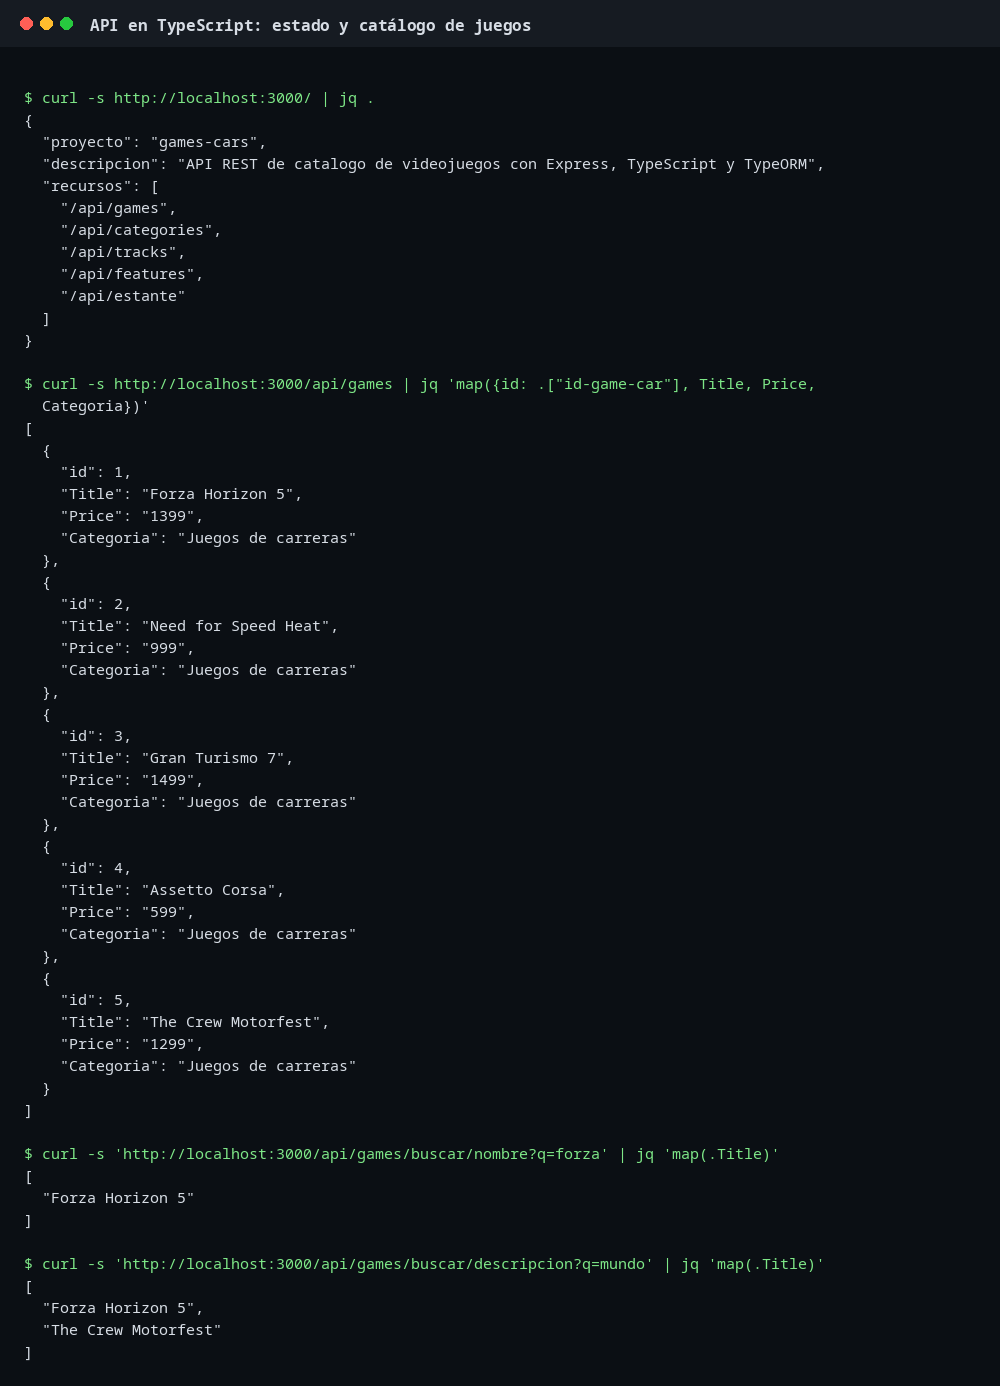
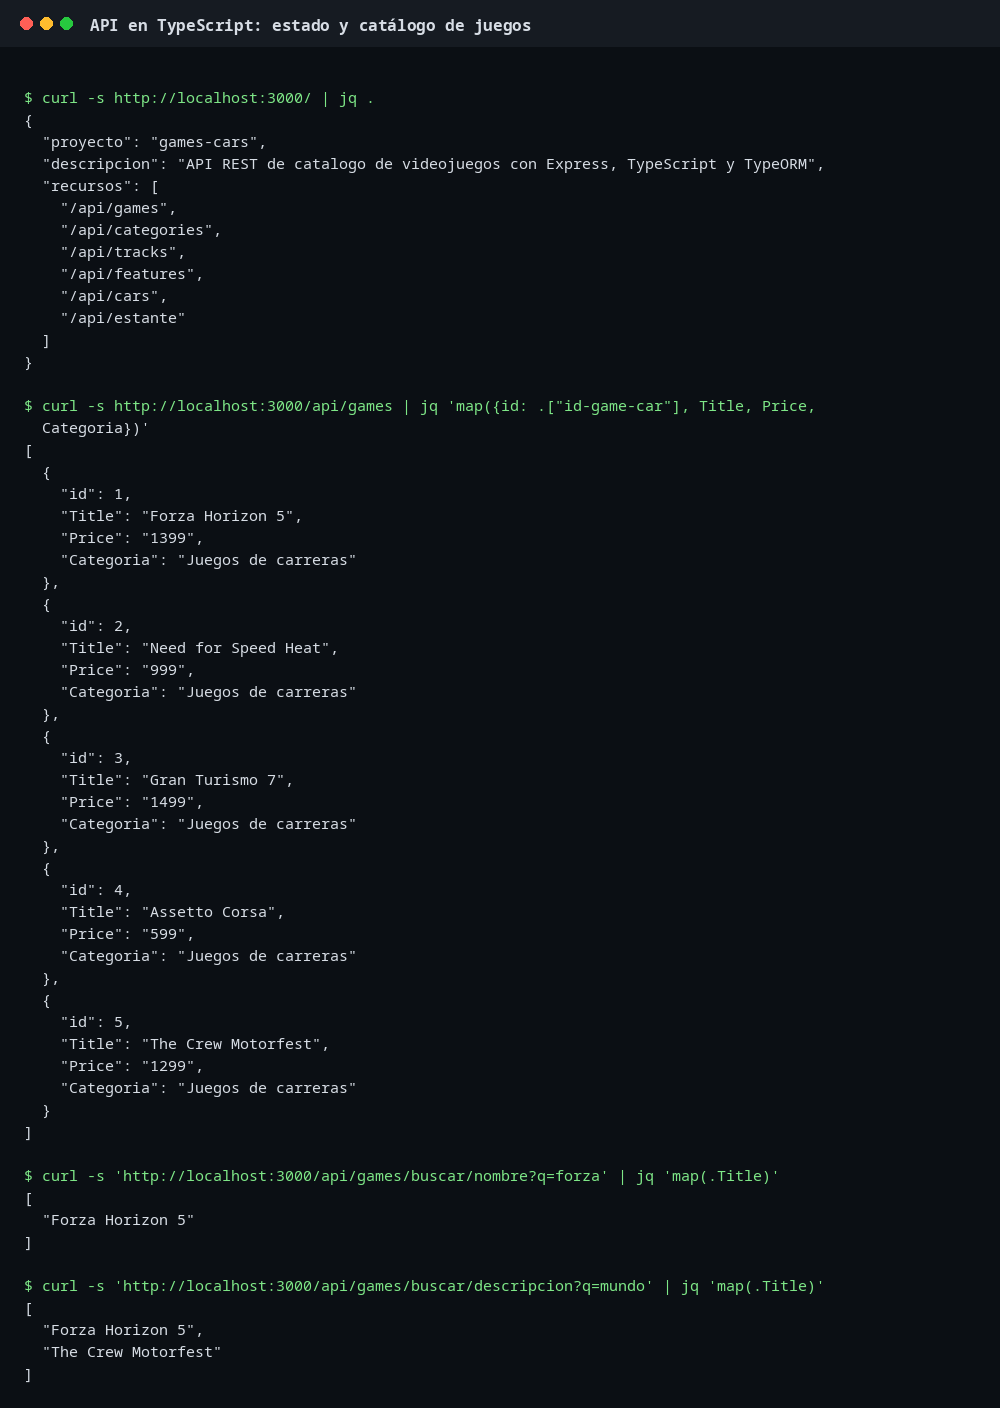
test: ampliar a 64 comprobaciones y regenerar evidencias
Agrega pruebas de cars y de la relación N:M, actualiza capturas y el resumen de pruebas.

diff --git a/pruebas/render_evidencias.py b/pruebas/render_evidencias.py
@@ -30,7 +30,8 @@ NOMBRES = {
     3: "evidencia-3-crud-categories.png",
     4: "evidencia-4-crud-tracks-features.png",
     5: "evidencia-5-vista-estante-validaciones.png",
-    6: "evidencia-6-typescript-typeorm.png",
+    6: "evidencia-6-cars-nm.png",
+    7: "evidencia-7-typescript-typeorm.png",
 }
 
 
@@ -101,7 +102,9 @@ def renderizar(entrada: Path, salida: Path) -> None:
 
 
 def main() -> int:
-    directorio = Path(sys.argv[1] if len(sys.argv) > 1 else "/tmp/opencode/capturas-txt")
+    directorio = Path(
+        sys.argv[1] if len(sys.argv) > 1 else "/tmp/opencode/capturas-txt"
+    )
     destino = Path(sys.argv[2] if len(sys.argv) > 2 else "evidencias")
     destino.mkdir(parents=True, exist_ok=True)
 
